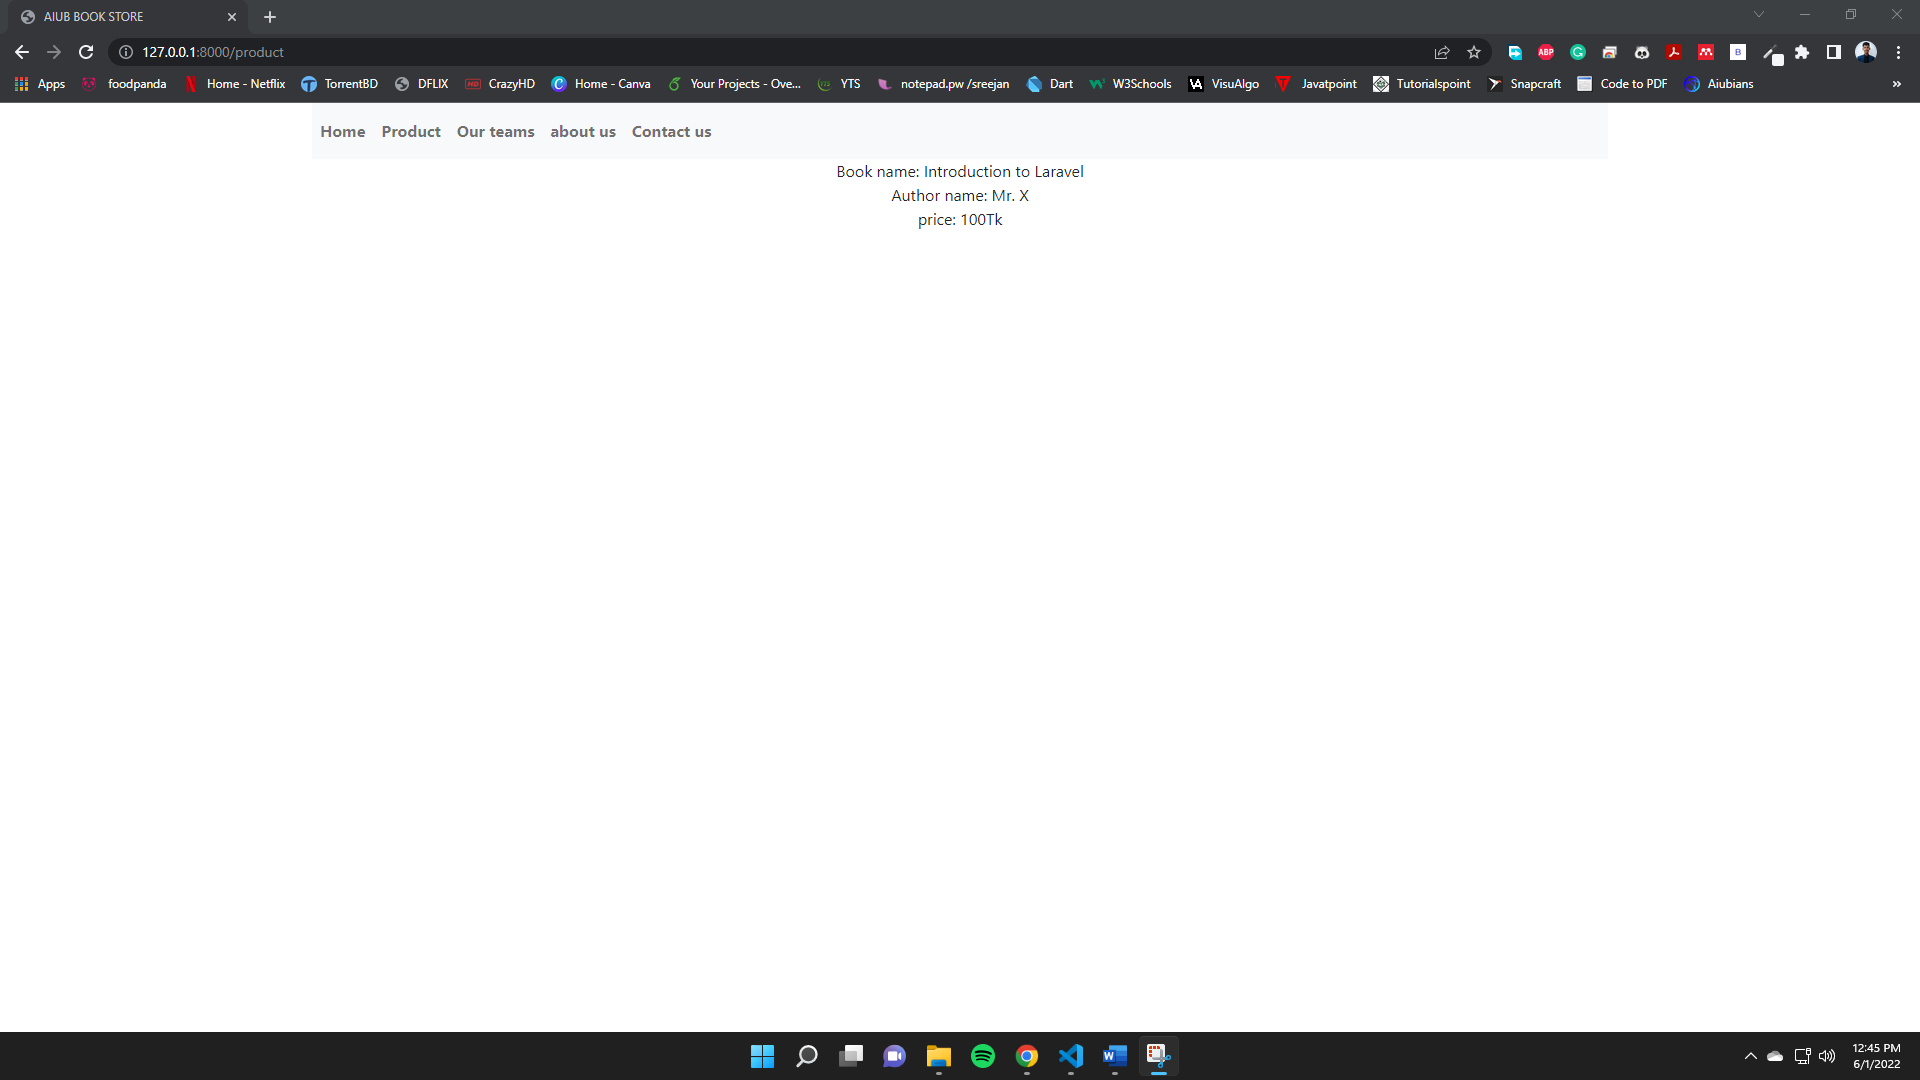
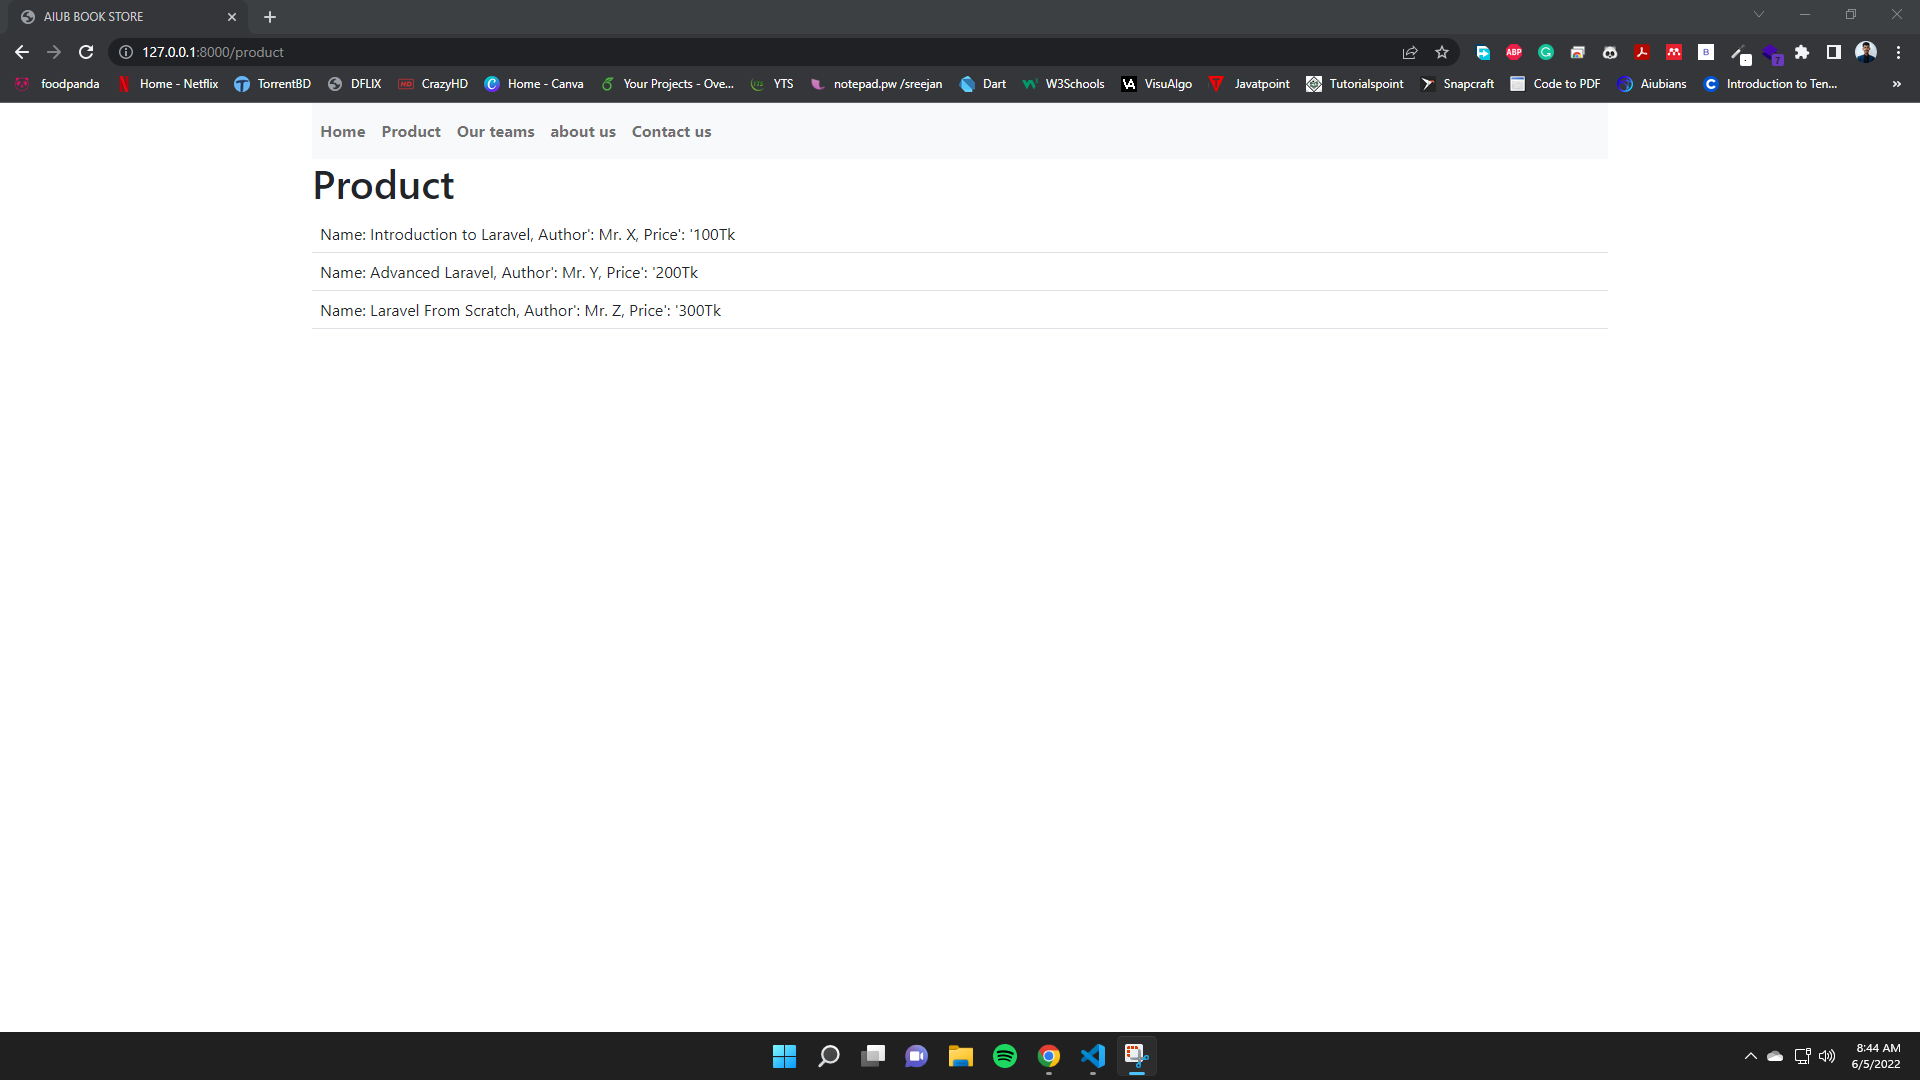
Product table updated

diff --git a/APWT_TASK_1/app/Http/Controllers/PagesController.php b/APWT_TASK_1/app/Http/Controllers/PagesController.php
@@ -14,11 +14,17 @@ class PagesController extends Controller
     public function product()
     {
         $product= array(
-            'name' => 'Book name: Introduction to Laravel',
-            'author' => 'Author name: Mr. X',
-            'price' => 'price: 100Tk '
+            "Name: Introduction to Laravel,
+            Author': Mr. X,
+            Price': '100Tk ",
+            "Name: Advanced Laravel,
+            Author': Mr. Y,
+            Price': '200Tk ",
+            "Name: Laravel From Scratch,
+            Author': Mr. Z,
+            Price': '300Tk ",
         );
-        return view('pages.product')->with('data',$product);
+        return view('pages.product')->with('product',$product);
     }
     
     public function ourTeams()

diff --git a/APWT_TASK_1/resources/views/pages/product.blade.php b/APWT_TASK_1/resources/views/pages/product.blade.php
@@ -1,11 +1,10 @@
 @extends('layouts.app')
 @section('content')
-<center>
-    <?php
-        foreach ($data as $item) {
-            echo $item;
-            echo "<br>";
-        };
-    ?>
-</center>
+<h1> Product </h1>
+<table class="table table-border">
+    @foreach($product as $product)
+    <tr>
+        <td>{{$product}}</td>
+    </tr>
+    @endforeach
 @endsection
